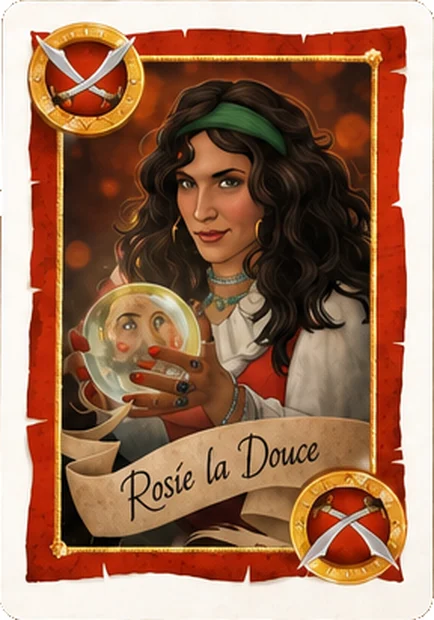
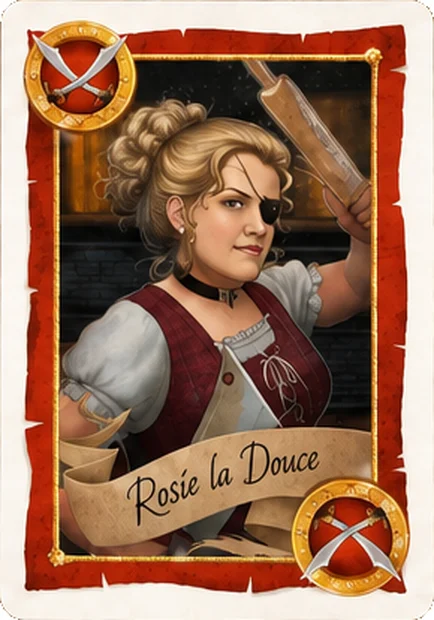
Skull King : Juanita Jade était sur la planche, prise pour une seconde Rosie
La planche des spéciales porte dix cases pour ce qu'on croyait être huit
sujets : deux femmes y figurent, et Gemini a peint le MÊME nom sous les deux,
« Rosie la Douce ». La seconde a donc été classée doublon inemployable, et
Juanita Jade est restée la seule carte du paquet classique sans illustration.

Ce ne sont pas deux variantes du même personnage. La blonde au rouleau à
pâtisserie et au cache-œil est Rosie ; la brune à la boule de cristal est
Juanita. On les sert chacune à sa carte, en se fiant au sujet et pas au
bandeau — la case 7 devient `classique-juanita`, la case 9 `classique-rosie`,
et il ne reste qu'un vrai doublon sur la planche, le second Will.

Le bandeau de Juanita ment donc, et c'est le prix de l'entorse à R1 que le
cahier annonçait : un nom peint dans l'illustration ne se corrige pas. À
104 px sur le tapis il tombe sous les 6 px de haut et ne se lit pas ; dans la
fiche ouverte par le « ? », si. À regénérer quand la planche repassera par
Gemini.

Le paquet classique est maintenant peint en entier, Pirates compris : 89
cartes sur 93. Ne restent nus que les quatre 0/14, qu'aucune planche
numérotée ne contient — leur valeur peut valoir 0.

Au passage, la docstring du script annonçait un ordre de lecture
« haut->bas puis gauche->droite » alors que `grille()` parcourt rangée par
rangée, de gauche à droite. Les noms étaient bons, c'est le commentaire qui
mentait — de quoi mal étiqueter la prochaine planche.

diff --git a/public/skullking.js b/public/skullking.js
@@ -157,8 +157,12 @@ const PIRATE_ART = {
     "Rosie D'Laney": 'classique-rosie',
     'Rascal le Flambeur': 'classique-rascal',
     'Mary Thorne': 'classique-mary',
-    // Juanita Jade n'a pas encore sa planche : elle reste en carte
-    // dessinée, comme avant.
+    // Juanita Jade est bien sur la planche des spéciales : c'est la brune à
+    // la boule de cristal, celle dont on croyait qu'elle était une seconde
+    // Rosie. Le paquet classique est donc peint en entier, Pirates compris —
+    // ne restent nus que les quatre 0/14, qu'aucune planche numérotée ne
+    // contient.
+    'Juanita Jade': 'classique-juanita',
   },
   perso: {
     'Harry le Géant': 'anto',

diff --git a/public/skullking.css b/public/skullking.css
@@ -2709,6 +2709,7 @@ h3 {
 .sk-card--art-classique-will { --art: url('assets/cards/classique-will.webp'); }
 .sk-card--art-classique-harry { --art: url('assets/cards/classique-harry.webp'); }
 .sk-card--art-classique-rosie { --art: url('assets/cards/classique-rosie.webp'); }
+.sk-card--art-classique-juanita { --art: url('assets/cards/classique-juanita.webp'); }
 .sk-card--art-classique-rascal { --art: url('assets/cards/classique-rascal.webp'); }
 .sk-card--art-classique-kraken { --art: url('assets/cards/classique-kraken.webp'); }
 .sk-card--art-classique-butin { --art: url('assets/cards/classique-butin.webp'); }

diff --git a/briefs/decouper-planche-speciales.py b/briefs/decouper-planche-speciales.py
@@ -4,8 +4,8 @@
 Même découpe que les familles numérotées — d'où la réutilisation directe de
 `grille()` et `carte()` de decouper-planche-numerotees.py. Seule différence :
 les cases ne portent pas des chiffres de 1 à 14 mais des sujets, donc la
-sortie est nommée à la main, case par case, en lecture (haut->bas puis
-gauche->droite).
+sortie est nommée à la main, case par case, dans l'ordre où `grille()` les
+rend : rangée par rangée, de gauche à droite.
 
 Le repérage ne suppose rien du fond : il isole ce qui n'est PAS le fond,
 échantillonné dans les marges latérales. Peu importe donc que la première
@@ -34,9 +34,17 @@ _s.loader.exec_module(_num)
 # pirates perso (anto/mams/guigui/pablo), qui n'habille que des Pirates et
 # emprunte tout le reste à celui-ci.
 PLANCHES = {
-    # Deux rangées de cinq sur un plan de bois. Dix cases pour huit cartes :
-    # la seconde Rosie est une autre femme et le second Will un doublon,
-    # aucun des deux n'a de carte où aller.
+    # Deux rangées de cinq sur un plan de bois. Dix cases pour neuf cartes :
+    # seul le second Will est un vrai doublon.
+    #
+    # Les deux femmes de la rangée du bas portent le MÊME nom peint, « Rosie
+    # la Douce » — Gemini l'a écrit deux fois. Ce ne sont pourtant pas deux
+    # variantes du même personnage : la blonde au rouleau à pâtisserie est
+    # Rosie, la brune à la boule de cristal est Juanita Jade. On les sert
+    # donc chacune à sa carte, en se fiant au sujet et pas au bandeau. Reste
+    # que celui de Juanita ment ; à 104 px sur le tapis il tombe sous les
+    # 6 px de haut et ne se lit pas, dans la fiche ouverte par le « ? » il se
+    # lit. À regénérer quand la planche repassera par Gemini.
     'extra-cards-sk.png': [
         'classique-fuite',      # le navire à la voile, au couchant
         'classique-skullking',  # le capitaine à la barre, fond noir
@@ -44,9 +52,9 @@ PLANCHES = {
         'classique-sirene-2',   # Alyra, à l'étoile de mer
         'classique-will',       # Will le Bandit
         'classique-harry',      # Harry le Géant
-        'classique-rosie',      # Rosie D'Laney
+        'classique-juanita',    # Juanita Jade, à la boule de cristal
         'classique-rascal',     # Rascal le Flambeur
-        None,                   # seconde Rosie — aucune carte où l'employer
+        'classique-rosie',      # Rosie la Douce, au rouleau et au cache-œil
         None,                   # Will en double
     ],
     # L'extension, deux rangées de cinq sur drap bleu. Trois cases en
